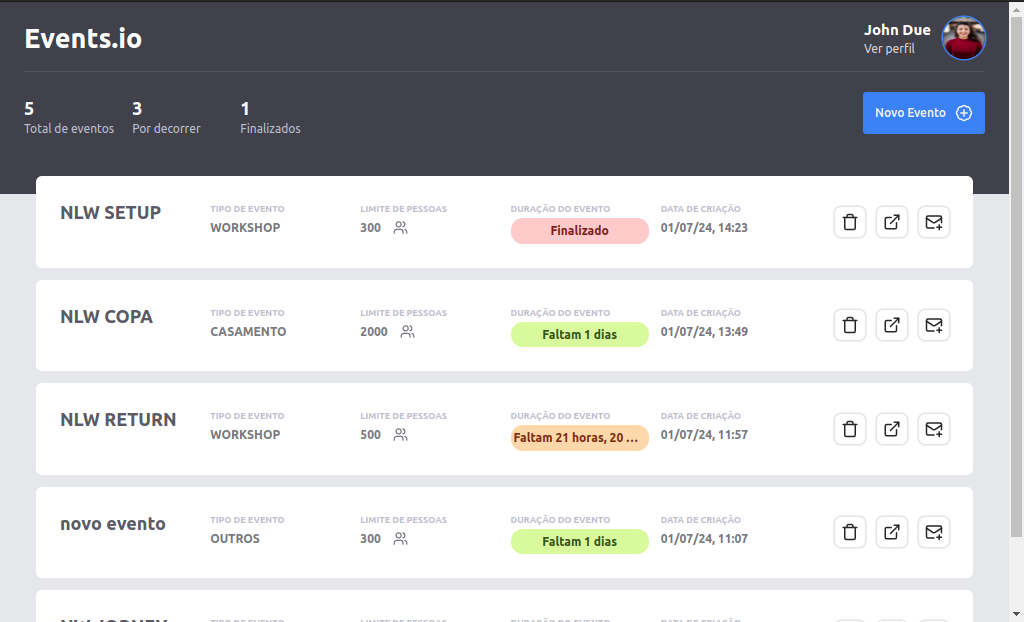
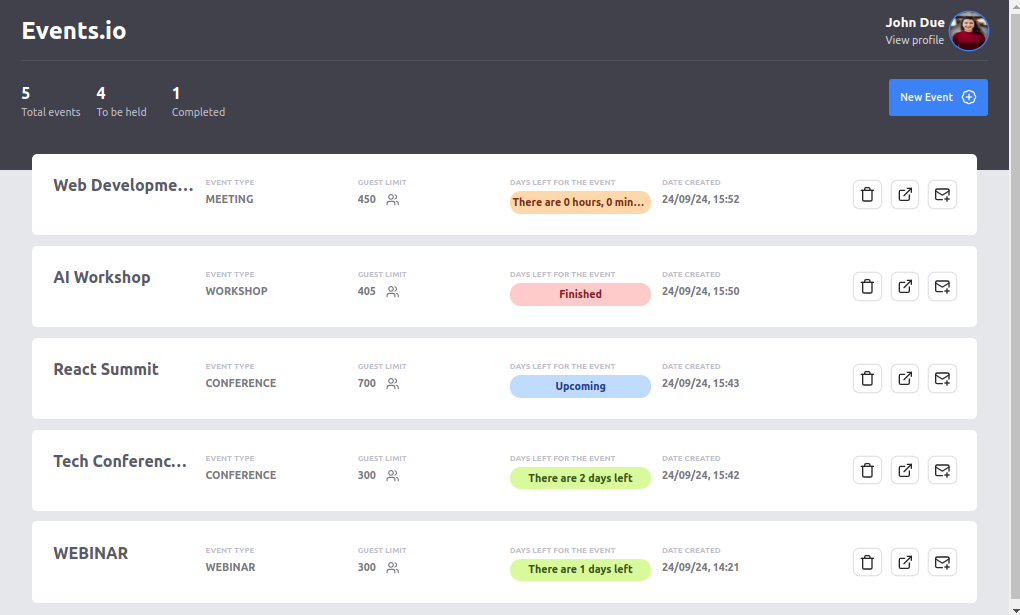
organizated ReadMe file

Changed region(s): [[0.0, 0.0, 1.0, 1.0], [0.0, 0.1545, 0.3039, 0.2163]]

diff --git a/src/utils/index.ts b/src/utils/index.ts
@@ -64,37 +64,37 @@ export function eventStatus(eventData: string | Date, duration: string | Date) {
   const secondsDifference = Math.floor((timeDifference % (1000 * 60)) / 1000);
 
   const status = {
-    finalizado: currentDate > durationDate,
-    aDecorrer: currentDate >= startDate && currentDate <= durationDate,
-    porDecorrer: daysDifference > 10,
-    faltamDias: daysDifference > 0 && daysDifference <= 10,
-    faltamHorasMinutosSegundos:
+    finished: currentDate > durationDate,
+    ongoing: currentDate >= startDate && currentDate <= durationDate,
+    upcoming: daysDifference > 10,
+    daysLeft: daysDifference > 0 && daysDifference <= 10,
+    hoursMinutesSecondsLeft:
       daysDifference === 0 &&
       (hoursDifference > 0 || minutesDifference > 0 || secondsDifference > 0),
-    comecando:
+    startingSoon:
       daysDifference === 0 &&
       hoursDifference === 0 &&
       minutesDifference === 0 &&
       secondsDifference === 0,
   };
 
-  const statusKey = status.finalizado
-    ? "finalizado"
-    : status.aDecorrer
-    ? "aDecorrer"
-    : status.porDecorrer
-    ? "porDecorrer"
-    : status.faltamDias
-    ? "faltamDias"
-    : status.faltamHorasMinutosSegundos
-    ? "faltamHorasMinutosSegundos"
-    : "comecando";
+  const statusKey = status.finished
+    ? "finished"
+    : status.ongoing
+    ? "ongoing"
+    : status.upcoming
+    ? "upcoming"
+    : status.daysLeft
+    ? "daysLeft"
+    : status.hoursMinutesSecondsLeft
+    ? "hoursMinutesSecondsLeft"
+    : "startingSoon";
 
   return {
     status:
-      statusKey === "faltamDias"
+      statusKey === "daysLeft"
         ? `There are ${daysDifference} days left`
-        : statusKey === "faltamHorasMinutosSegundos"
+        : statusKey === "hoursMinutesSecondsLeft"
         ? `There are ${hoursDifference} hours, ${minutesDifference} minutes, and ${secondsDifference} seconds left`
         : statusKey.charAt(0).toUpperCase() +
           statusKey

diff --git a/src/constants/index.tsx b/src/constants/index.tsx
@@ -2,28 +2,28 @@ import { EVENTSTYPES } from "../types";
 
 export const EVENTSTYPESARRAY = Object.values(EVENTSTYPES)
 
-export const STATUS_COLORS = {
-  finalizado: {
+const STATUS_COLORS = {
+  finished: {
     bg: "bg-red-200",
     color: "text-red-900"
   },
-  aDecorrer: {
+  ongoing: {
     bg: "bg-green-200",
     color: "text-green-900"
   },
-  porDecorrer: {
+  upcoming: {
     bg: "bg-blue-200",
     color: "text-blue-900"
   },
-  faltamDias: {
+  daysLeft: {
     bg: "bg-lime-200",
     color: "text-lime-900"
   },
-  faltamHorasMinutosSegundos: {
+  hoursMinutesSecondsLeft: {
     bg: "bg-orange-200",
     color: "text-orange-900"
   },
-  comecando: {
+  startingSoon: {
     bg: "bg-indigo-200",
     color: "text-indigo-900"
   }

diff --git a/README.md b/README.md
@@ -1,11 +1,23 @@
 # Project Event.oi
 
+## DEMO
+
+Check out the live demo of the application here:
+
+[Click here to open DEMO](https://events-nine-umber.vercel.app/)
+
+![how to create new event](./public/v1.gif)
+
+### Dashboard Screen
 ![Dashboard](./public/1.png)
-![Modal para criação de eventos](./public/2.png)
+### Create Event Screen
+![Modal for event creation](./public/2.png)
+### Event Details Screen
+![Modal for event creation](./public/3.png)
 
-## Descrição
+## Description
 
-O **Project Event.oi** é uma aplicação web desenvolvida para a criação e gerenciamento de eventos. Com esta aplicação, você pode criar eventos e convidar pessoas para participarem deles via e-mail. A aplicação foi construída utilizando as seguintes tecnologias:
+**Project Event.oi** is a web application developed for creating and managing events. With this application, you can create events and invite people to participate via email. The application is built using the following technologies:
 
 - **React 18**
 - **Tailwind CSS**
@@ -13,40 +25,44 @@ O **Project Event.oi** é uma aplicação web desenvolvida para a criação e ge
 - **Vite**
 - **TypeScript**
 
-## Funcionalidades
+## Features
 
-- **Criação de Eventos:** Permite a criação de novos eventos.
-- **Envio de Convites:** Envia convites para os convidados via e-mail.
-- **Validação de Formulários:** Utiliza o `react-hook-form` para validação dos formulários.
-- **Visualização de Dados:** Exibe o total de eventos criados e o total de convidados por evento.
-- **Controle de Convites:** Garante que uma pessoa seja convidada apenas uma vez por evento e permite até 3 convidados por convite.
+- **Event Creation:** Allows the creation of new events.
+- **Invitation Sending:** Sends invitations to guests via email.
+- **Form Validation:** Uses `react-hook-form` for form validation.
+- **Data Display:** Shows the total number of events created and the total number of guests per event.
+- **Invitation Control:** Ensures that a person is invited only once per event and allows up to 3 guests per invitation.
 
-## Instalação e Execução
+## Installation and Execution
 
-1. Clone o repositório:
+1. Clone the repository:
    ```sh
    git clone https://github.com/Amiltonxavier/events
    cd events
-   ```
-2. Instale as dependências:
-  ```sh 
+
+ ```
+
+2. Install the dependencies: 
+```sh 
   npm install
+
   ```
-3. Inicie a aplicação:
+3. Start the application:
 
 ```sh
     npm run dev
 ```
 
-5. Acesse a aplicação no navegador:
-```sh
+4. Access the application in the browser:
+```shell
     http://localhost:5173
+
 ```
 
 # Licença
-Este projeto está licenciado sob a MIT License. Veja o arquivo LICENSE para mais detalhes.
 
-Desenvolvido com ❤ por Amilton Xavier
+This project is licensed under the MIT License. See the LICENSE file for more details.
 
+Developed with ❤ by Amilton Xavier
 
-Sinta-se à vontade para ajustar ou adicionar qualquer informação adicional conforme necessário!
+This version includes the translated sections and a demo link section, without separating the installation commands or adding extra zones. Let me know if you need any further adjustments!
